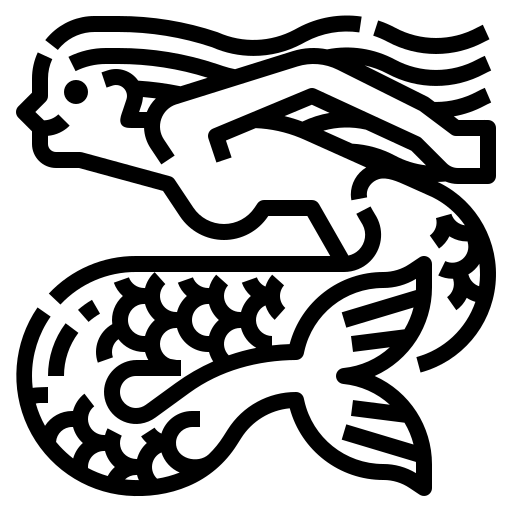
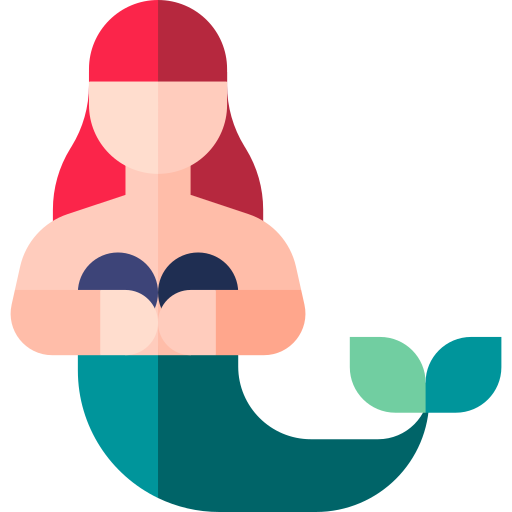
done

diff --git a/styles/style.css b/styles/style.css
@@ -23,11 +23,7 @@ p {
 
 .game-screen {
   height: 100vh;
-  background: radial-gradient(
-    circle at -3.7% -5%,
-    rgb(113, 213, 225) 0.3%,
-    rgb(73, 146, 226) 90.5%
-  );
+  background-image: url("../images/backgrounds/game/backgroun3.jpg");
   background-size: cover;
   background-repeat: no-repeat;
   padding: 0;
@@ -37,28 +33,23 @@ p {
 
 .splash-screen {
   height: 100vh;
-  background: radial-gradient(
-    circle at -3.7% -5%,
-    rgb(113, 213, 225) 0.3%,
-    rgb(73, 146, 226) 90.5%
-  );
+  background-image: url("../images/backgrounds/splash/splash.jpg");
   background-size: cover;
   background-repeat: no-repeat;
   padding: 0;
   margin: 0;
   text-align: center;
 }
-section {
-  height: 100vh;
+
+#canvas {
+  background-image: url("../images/backgrounds/game/backgroun3.jpg");
+  background-repeat: no-repeat;
+  background-size: cover;
 }
 
 .game-over {
   height: 100vh;
-  background: radial-gradient(
-    circle at -3.7% -5%,
-    rgb(113, 213, 225) 0.3%,
-    rgb(73, 146, 226) 90.5%
-  );
+  background-image: url("../images/backgrounds/lost/lostGame.jpg");
   background-size: cover;
   background-repeat: no-repeat;
   padding: 0;
@@ -68,11 +59,7 @@ section {
 
 .game-won {
   height: 100vh;
-  background: radial-gradient(
-    circle at -3.7% -5%,
-    rgb(113, 213, 225) 0.3%,
-    rgb(73, 146, 226) 90.5%
-  );
+  background-image: url("../images/backgrounds/won/winGame.jpg");
   background-size: cover;
   background-repeat: no-repeat;
   padding: 0;
@@ -102,11 +89,6 @@ section {
   background: #1b3764;
 }
 
-#canvas {
-  background-image: url("../images/backgrounds/backgroun3.jpg");
-  background-repeat: no-repeat;
-  background-size: cover;
-}
 .show {
   display: block;
 }

diff --git a/js/index.js b/js/index.js
@@ -12,9 +12,10 @@ const buildSplashScreen = () => {
   <h1>FIND ATLANTIS</h1>
         <p> 
             The success of the mission depends on you, don't f*** it up! <br>
-            Dr. Henry Walton aka Indiana Jones has left you some tips on how to find the long lost city of Atlantis. <br>
-            Pirates are out to kill you. Collect treasures to improve your score. <br>
+            Dr. Henry Walton aka Indiana Jones has left you his submarine in order to help you find the long lost city of Atlantis. <br>
+            Watch out for the mermaids, their beauty can be deceitful. Collect treasures to improve your score. <br>
             You've got 20 seconds.  
+            
         </p>
   <button class= "buttons" id ="start-button" > Let's go! </button>
   </section>
@@ -69,7 +70,7 @@ const buildGameOver = () => {
 const buildGameWon = () => {
   buildDom(`
   <section class= "game-won">
- <h1>You are the next Indian Jones</h1>
+ <h1>You are the next Indiana Jones</h1>
         <p> 
         </br>
             congrats 

diff --git a/js/obstacles.js b/js/obstacles.js
@@ -9,7 +9,7 @@ class ObstacleX {
 
   draw() {
     const badObsImg = new Image();
-    badObsImg.src = "./images/badObstacles/bad.png";
+    badObsImg.src = "./images/badObstacles/mermaid (1).png";
     this.ctx.drawImage(badObsImg, this.x, this.y, this.size, this.size);
   }
 
@@ -30,7 +30,7 @@ class ObstacleY {
 
   draw() {
     const goodObsImg = new Image();
-    goodObsImg.src = "./images/goodObstacles/coin.png";
+    goodObsImg.src = "./images/goodObstacles/coin_pure.png";
     this.ctx.drawImage(goodObsImg, this.x, this.y, this.size, this.size);
   }
 

diff --git a/js/player.js b/js/player.js
@@ -41,7 +41,7 @@ class Player {
 
   draw() {
     const playerImg = new Image();
-    playerImg.src = "./images/player/player3.png";
+    playerImg.src = "./images/player/submarine (1).png";
     this.ctx.drawImage(playerImg, this.x, this.y, this.size, this.size);
   }
 
